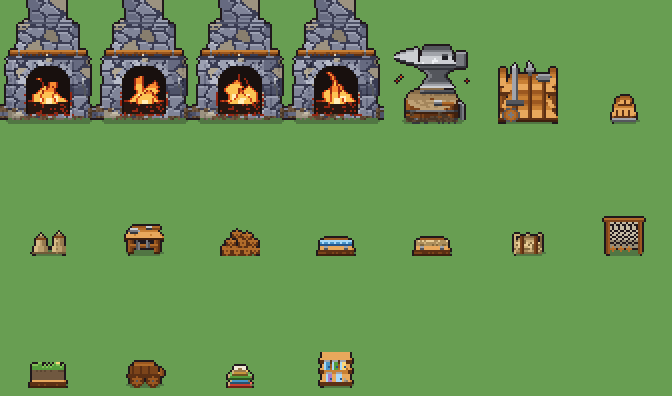
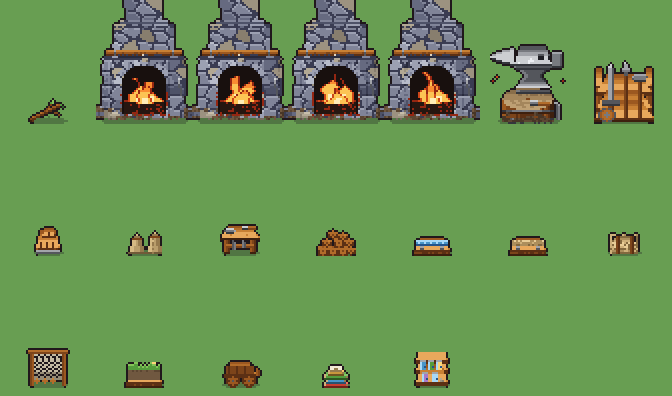
나무를 성기게, 떨어진 가지를 줍는다
나무 수  마을 녹지 0.26 -> 0.17, 깊은 숲 0.30 -> 0.24, 솔숲 0.34 -> 0.28,
          자작나무 언덕 0.52 -> 0.44, 폭포골 0.24 -> 0.20 — 마을이 숲에
          잠기지 않을 만큼만 성기게

  떨어진 가지 (forage_branch) — 주우면 **목재**
    · 이름을 forage_ 로 지어 채집 체계를 공짜로 탄다: 아침 리젠 상한
      (forage_count) · 비 오는 날 추가 리젠 · E키 줍기 경로
    · 아침 채집물 풀에 13% 슬라이스 (산자락 15%), 마을 녹지에도 드문드문
    · 목재는 가방(items)이 아니라 자원 주머니(GameData.wood)로 들어가므로
      interact 에서 따로 처리한다 — 채집 숙련(beach)이 올라 한 번에 더 줍고,
      도감에는 안 오른다 (재료지 채집물이 아니다)
    · 그림은 갈라진 잔가지 둘 + 잎 몇 장 — 작은 물건일수록 실루엣이
      이름을 말해야 한다

검증: 136개 · 실패는 기존 여섯 개 그대로

Claude-Session: https://claude.ai/code/session_0112h9ZFjgKMVtyW7fYhoBYC

diff --git a/game/assets/ref/make_props.js b/game/assets/ref/make_props.js
@@ -1133,7 +1133,31 @@ function toolrack() {
 
 
 // ---- 내보내기 ----
+// 떨어진 가지 — 주우면 목재가 된다. 나무 밑에 떨어져 있는 잔가지라
+// 한 칸짜리다: 비스듬한 굵은 가지 하나 + 갈라진 잔가지 둘 + 잎 몇 장.
+// 물건이 작을수록 실루엣이 이름을 말해야 한다 — 갈라짐이 곧 「가지」다
+function branch() {
+  const g = new P(22, 14);
+  g.ground(11, 12, 9, 2.0);
+  // 굵은 가지 — 왼아래에서 오른위로
+  for (let k = 0; k < 14; k++) {
+    const x = 3 + k, y = 10 - (k >> 1);
+    g.px(x, y, W[3]); g.px(x, y + 1, W[5]);
+    if (k % 4 === 0) g.px(x, y, W[2]);              // 결
+  }
+  g.px(2, 11, W[4]); g.px(2, 12, W[6]);             // 부러진 밑동
+  g.px(3, 12, W[5]);
+  // 갈라진 잔가지 둘
+  for (let k = 0; k < 4; k++) g.px(9 + k, 7 - k, W[4]);
+  for (let k = 0; k < 3; k++) g.px(14 + k, 8 + (k >> 1), W[4]);
+  // 아직 붙어 있는 잎 몇 장
+  g.px(12, 3, LEAF[1]); g.px(13, 3, LEAF[0]); g.px(13, 2, LEAF[0]);
+  g.px(17, 4, LEAF[1]); g.px(18, 5, LEAF[2]);
+  return outline(g);
+}
+
 const OUTS = {};
+OUTS['forage_branch'] = branch().render();
 for (let f = 0; f < 4; f++) OUTS['deco_forge_' + f] = forge(f).render();
 OUTS['deco_anvil'] = anvil().render();
 OUTS['deco_weaponrack'] = weaponrack().render();
